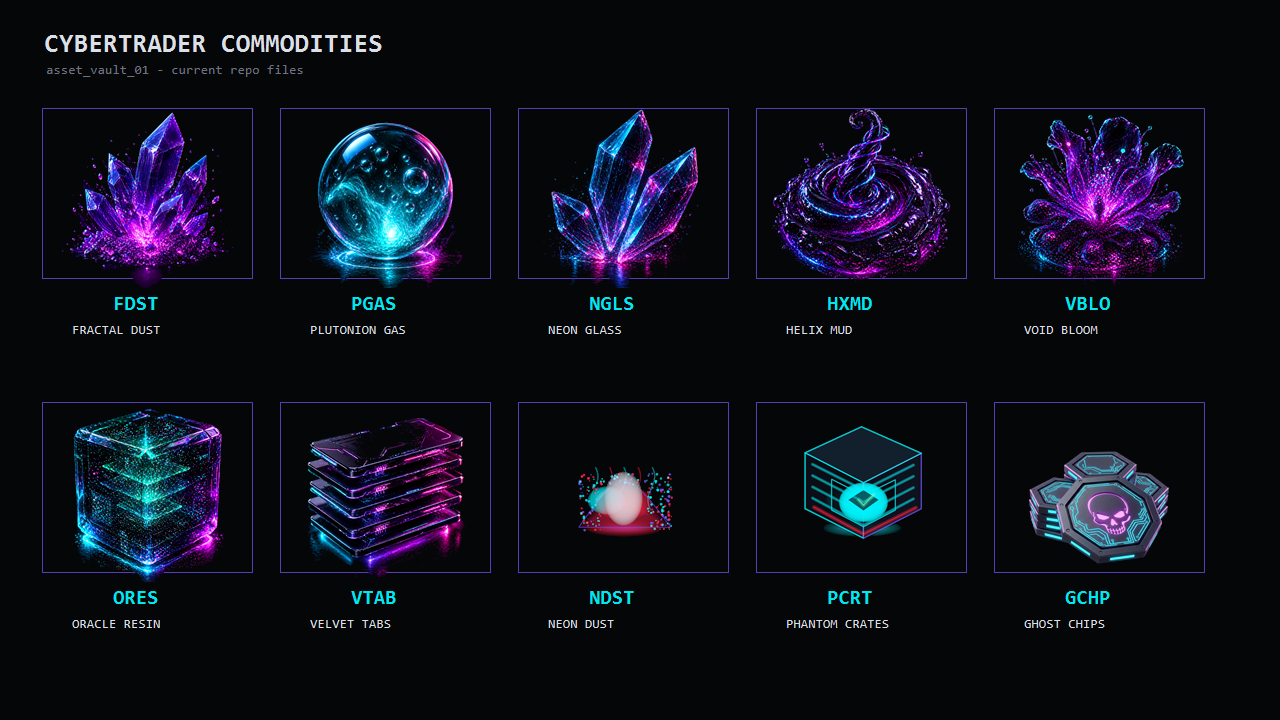
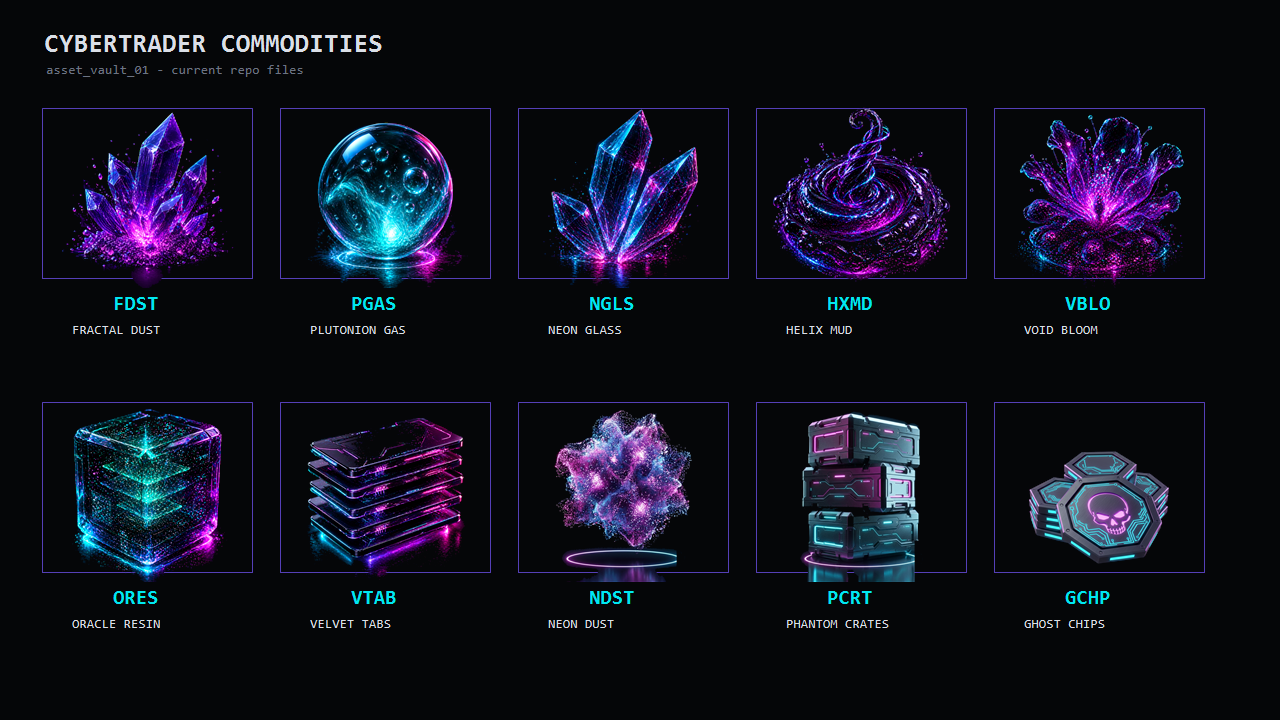
import final neon dust and phantom crates art

Changed region(s): [[0.4375, 0.55, 0.5625, 0.825], [0.625, 0.55, 0.7188, 0.825]]

diff --git a/web/src/data/brand.ts b/web/src/data/brand.ts
@@ -70,8 +70,8 @@ export const ASSET_SPEC: AssetSpec[] = [
   { slug: "void_bloom", displayName: "VBLO - Void Bloom", pathInWeb: "/brand/commodities/void_bloom.png", status: "generated", note: "ChatGPT user-supplied final candidate." },
   { slug: "oracle_resin", displayName: "ORES - Oracle Resin", pathInWeb: "/brand/commodities/oracle_resin.png", status: "generated", note: "ChatGPT user-supplied final candidate." },
   { slug: "velvet_tabs", displayName: "VTAB - Velvet Tabs", pathInWeb: "/brand/commodities/velvet_tabs.png", status: "generated", note: "ChatGPT user-supplied final candidate." },
-  { slug: "neon_dust", displayName: "NDST - Neon Dust", pathInWeb: "/brand/commodities/neon_dust.png", status: "placeholder", note: "Needs ChatGPT final: glowing powder pile with energy mist." },
-  { slug: "phantom_crates", displayName: "PCRT - Phantom Crates", pathInWeb: "/brand/commodities/phantom_crates.png", status: "placeholder", note: "Needs ChatGPT final: futuristic encrypted crate with glowing symbol core." },
+  { slug: "neon_dust", displayName: "NDST - Neon Dust", pathInWeb: "/brand/commodities/neon_dust.png", status: "generated", note: "Gemini user-supplied final candidate." },
+  { slug: "phantom_crates", displayName: "PCRT - Phantom Crates", pathInWeb: "/brand/commodities/phantom_crates.png", status: "generated", note: "Gemini user-supplied final candidate." },
   { slug: "ghost_chips", displayName: "GCHP - Ghost Chips", pathInWeb: "/brand/commodities/ghost_chips.png", status: "generated", note: "SpriteCook original." },
 ];
 

diff --git a/web/public/brand/ideas/README.md b/web/public/brand/ideas/README.md
@@ -10,4 +10,4 @@ Current concept set for asset_vault_01.
 - Motion direction: rotate commodity preview shells in CSS, not baked into source PNGs.
 - Inspiration board: `ascii-terminal-board.svg` explores corrupted CLI, binary field, and signal-skull motifs.
 
-ChatGPT user-supplied final candidates currently committed: FDST, PGAS, NGLS, HXMD, VBLO, ORES, VTAB. SpriteCook original still committed: GCHP. Still needed in the same premium 3D style: NDST and PCRT.
+User-supplied final candidates currently committed: FDST, PGAS, NGLS, HXMD, VBLO, ORES, VTAB, NDST, PCRT. SpriteCook original still committed: GCHP.
